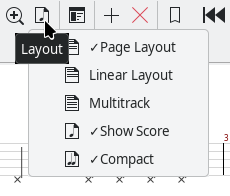
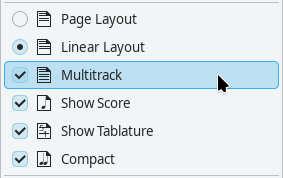
help: update for PR #821 and minor fixes

diff --git a/desktop/TuxGuitar/share/help/detail_view.html b/desktop/TuxGuitar/share/help/detail_view.html
@@ -53,12 +53,14 @@
   <section>
     <p>With the <strong>View</strong> pulldown menu and the related toolbar icons you can customize the appearance of TuxGuitar's main window and open different dialogs.</p>
     <p>You can change the current view also during playback.</p>
-    <h2>Enable and disable toolbars and track table</h2>
-    <p>The first three entries in the <strong>View</strong> menu let you show and hide the main elements of the TuxGuitar window:</p>
+    <h2>Show or hide toolbars, track table and fretboard</h2>
+    <p>The first five entries in the <strong>View</strong> menu let you show and hide the main elements of the TuxGuitar window:</p>
     <ul>
-      <li><strong>View → Show Main Toolbar</strong>: Toggles the main toolbar just below the pulldown menu.</li>
-      <li><strong>View → Show Edit Toolbar</strong>: Enables and disables the edit toolbar on the left side of the main window.</li>
+      <li><strong>View → Show Main Toolbar</strong>: Toggles the Main Toolbar just below the pulldown menu.</li>
+      <li><strong>View → Customize Main Toolbar</strong>: Allows you to add or remove buttons from the Main Toolbar.</li>
+      <li><strong>View → Show Edit Toolbar</strong>: Enables and disables the Edit Toolbar on the left side of the main window.</li>
       <li><strong>View → Show Track Table</strong>: Shows the track table on the bottom.</li>
+      <li><strong>View → Show Fretboard</strong>: The Fretboard on the bottom of the main window is useful to view the exact spots where you should put your fingers in each moment. You can even click on the fretboard to edit your tab. Fretboard view is available for both right- and left-handed guitars.</li>
     </ul>
     <img src="images/toolbars_on_off.png" />
     <h2>Open and close more dialogs</h2>
@@ -66,19 +68,20 @@
     <ul>
       <li><strong>View → Show Instruments</strong>: In the <a href="editing_song.html#instruments_dialog">instruments settings</a> you can change the volume and some effects of the instruments in your tab, change panning and assign MIDI channel.</li>
       <li><strong>View → Show Player</strong>: Here you can show the <a href="start_playing.html#playback">Player control</a> window, where you can control the song playback.</li>
-      <li><strong>View → Show Fretboard</strong>: The Fretboard on the bottom of the main window is useful to view the exact spots where you should put your fingers in each moment. You can even click on the fretboard to edit your tab. Fretboard view is available for both right- and left-handed guitars.</li>
       <li><strong>View → Show Piano</strong>: Opens a separate window with a piano keyboard. Now you can enter the notes by clicking on the piano keys.</li>
       <li><strong>View → Show Matrix</strong>: Opens the <a href="edit_matrix.html">Matrix Editor</a> for percussion tracks.</li>
     </ul>
     <img src="images/show_instruments.png" />
     <h2 id="layout">Layout</h2>
-    <p>There are several layout types in TuxGuitar. You can switch between them with the Layout icons on the edit toolbar or in the <strong>View</strong> pulldown menu. They all change the view of tablature and scores in the main editor window.</p>
+    <p>There are several layout types in TuxGuitar. You can switch between them in the <strong>View</strong> pulldown menu or with the Layout icons on the Main Toolbar. They all change the view of tablature and scores in the main editor window.</p>
     <img src="images/layout.png" />
-    <p>The first button in the list is <strong>Page Layout</strong>. Its alternative is the second button: <strong>Linear Layout</strong>. Page layout displays the tablature and scores like on the paper sheets, with line breaks. On the other side, linear view views the instrument in a single line, expanding to the right.</p>
-    <p>The third button enables <strong>Multitrack</strong> view. When enabled, all the tracks will be displayed in the main window. Depending on your previous choice (Page or Linear Layout) you will see a different view. In my personal experience, good combinations are Linear+Multitrack, and Page Layout without Multitrack (for single instrument view).</p>
-    <p>The fourth button is <strong>Show Scores</strong>. It simply views the scores (notation) above your tab line.</p>
+    <p>The first menu item is <strong>Page Layout</strong>. Its alternative is the second item: <strong>Linear Layout</strong>. Page Layout displays the tablature and scores like on the paper sheets, with line breaks. On the other side, Linear Layout shows the instrument in a single line, expanding to the right.</p>
+    <p>The third menu item enables <strong>Multitrack</strong> view. When enabled, all the tracks will be displayed in the main window. When Multitrack is turned off, only the track selected in the track table is shown.</p>
+    <img src="images/multitrack.png" />
+    <p>In my personal experience, good combinations are Linear+Multitrack, and Page Layout without Multitrack (for viewing a single instrument). By turning Multitrack on and off, you can easily switch between these two combinations: When you activate Multitrack, the layout automatically changes to Linear; when turning Multitrack off, the layout switches to Page Layout. You can still get other combinations by explicitly selecting Page Layout or Linear Layout after toggeling Multitrack.</p>
+    <p>The fourth item is <strong>Show Scores</strong>. It simply views the scores (notation) above your tab line.</p>
     <p><strong>Show Tablature</strong> enables or disables the tablature line in the main view.</p>
-    <p>The last button enables the <strong>Compact</strong> view. You would like to enable it when you consider your view too wide. Note that in this mode some details may be hidden (e.g. <i>Bend</i> effect details).</p>
+    <p>The last entry enables the <strong>Compact</strong> view. You would like to enable it when you consider your view too wide. Note that in this mode some details may be hidden (e.g. <i>Bend</i> effect details).</p>
     <p>In the submenu <strong><a href="edit_chord.html#chord_style">View → Chord Style</a></strong> you can choose how chords are displayed in the main tab view.</p>
     <h2 id="zoom">Zoom</h2>
     <p>The last section in the <strong>View</strong> pulldown menu controls how big or small the scores and tablatures are shown: <strong>Zoom in</strong> to enlarge, <strong>Zoom out</strong> to shrink or <strong>Reset</strong> the zoom to turn back to the default size.</p>

diff --git a/desktop/TuxGuitar/share/help/style.css b/desktop/TuxGuitar/share/help/style.css
@@ -86,11 +86,6 @@ ul {
   padding-left: 20px;
 }
 
-ul li:hover a {
-  padding-left: 5px;
-  color: #376596;
-}
-
 .sidebar ul a i {
   margin-right: 16px;
 }
